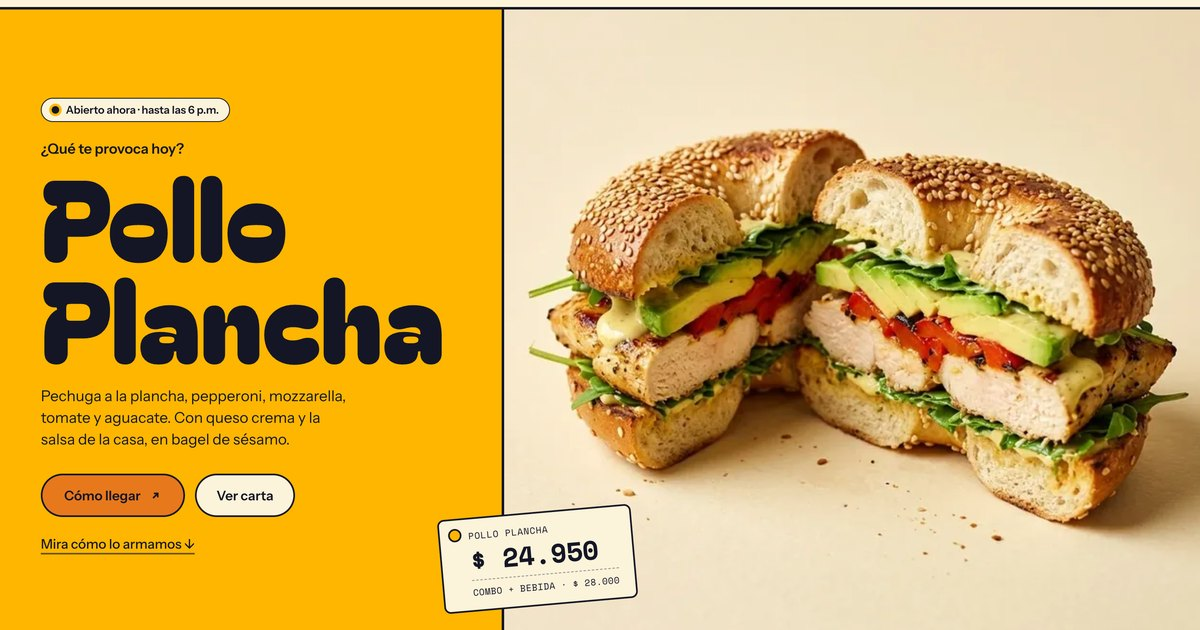
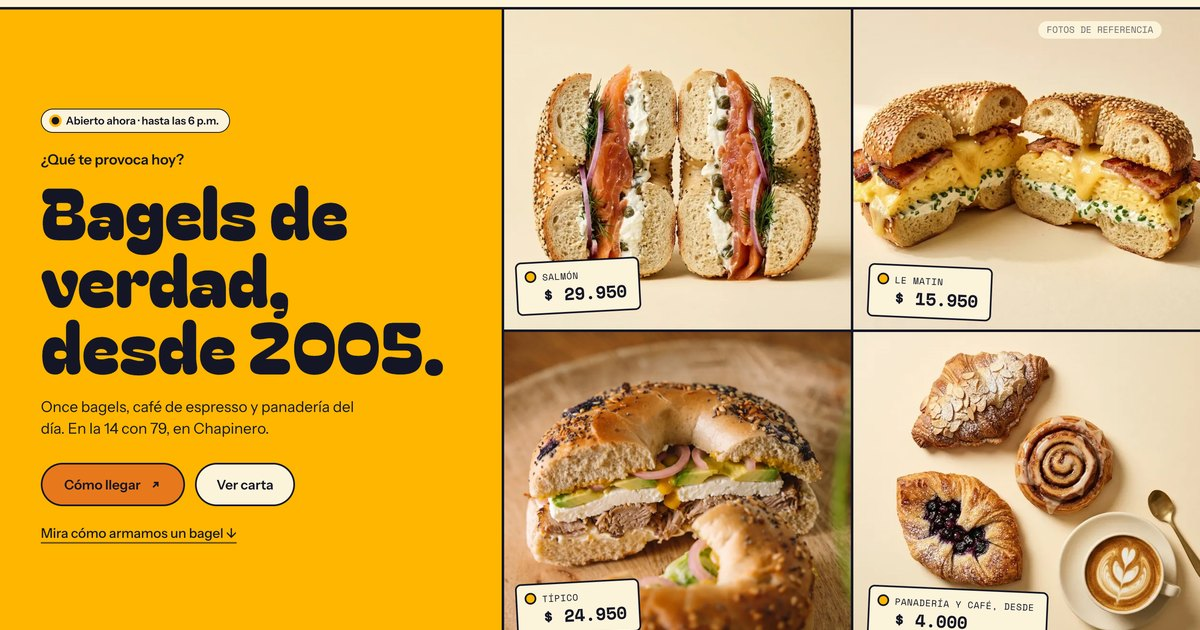
Portada de toda la tienda: vitrina con varios productos; el Pollo Plancha queda como ejemplo del armado

diff --git a/index.html b/index.html
@@ -5,7 +5,7 @@
 <meta name="viewport" content="width=device-width, initial-scale=1, viewport-fit=cover">
 <title>Le Bagel Club</title>
 <meta name="theme-color" content="#FCF3DB">
-<meta name="description" content="Bagels hervidos y horneados en Chapinero desde 2005. Carta, cómo se arma el Pollo Plancha y cómo llegar a la Cra. 14 #79-47, Bogotá.">
+<meta name="description" content="Bagels, café y panadería en Chapinero desde 2005. La carta completa y cómo llegar a la Cra. 14 #79-47, Bogotá.">
 <meta property="og:type" content="website">
 <meta property="og:title" content="Le Bagel Club · Bagels en la 14 con 79">
 <meta property="og:description" content="Bagels, café y panadería en Chapinero. Cra. 14 #79-47, Bogotá.">
@@ -77,24 +77,25 @@ h1, h2, h3 { font-family: var(--titulo); font-weight: 400; letter-spacing: 0; }
 
 /* ───── Acto 1: portada ───── */
 .portada { position: relative; display: grid; grid-template-columns: 42% 58%; grid-template-rows: 1fr auto; min-height: calc(100svh - 67px); }
-.portada__bloque { position: relative; z-index: 2; display: flex; flex-direction: column; justify-content: center; padding: clamp(32px, 4vw, 64px) clamp(24px, 3.4vw, 56px); background: var(--amarillo); border-right: var(--borde); }
+.portada__bloque { grid-column: 1; grid-row: 1; position: relative; z-index: 2; display: flex; flex-direction: column; justify-content: center; padding: clamp(32px, 4vw, 64px) clamp(24px, 3.4vw, 56px); background: var(--amarillo); border-right: var(--borde); }
 .portada__pregunta { font: 600 17px/1.2 var(--texto); margin-top: 22px; }
-.portada__bloque h1 { font-size: clamp(76px, 9.4vw, 140px); line-height: 0.9; margin: 8px 0 22px; }
-.portada__lead { font-size: 18px; line-height: 1.45; max-width: 31ch; }
+.portada__bloque h1 { font-size: clamp(54px, 5.9vw, 92px); line-height: 0.95; margin: 10px 0 22px; }
+.portada__lead { font-size: 18px; line-height: 1.45; max-width: 34ch; }
 .portada__acciones { display: flex; align-items: center; gap: 12px; flex-wrap: wrap; margin-top: 28px; }
 .portada__recorrido { align-self: flex-start; margin-top: 10px; }
-.portada__foto { position: relative; z-index: 3; }
-.portada__marco { position: absolute; inset: 0; overflow: hidden; background: var(--crema); }
-.portada__marco img { width: 100%; height: 100%; object-fit: cover; object-position: 50% 56%; }
-.portada__nota { position: absolute; right: var(--lado); bottom: 14px; font: 400 11px/1 var(--mono); color: rgba(21, 22, 37, 0.6); text-transform: uppercase; }
-
-/* El precio, como etiqueta impresa pegada sobre la unión del bloque y la foto */
-.etiqueta-precio { position: absolute; left: -76px; bottom: 44px; display: grid; gap: 4px; padding: 12px 18px 12px 34px; background: var(--crema); border: 2px solid var(--carbon); border-radius: 8px; font-family: var(--mono); text-transform: uppercase; transform: rotate(-5deg); transform-origin: left center; }
-.etiqueta-precio::before { content: ''; position: absolute; left: 10px; top: 10px; width: 12px; height: 12px; border-radius: 50%; border: 2px solid var(--carbon); background: var(--amarillo); }   /* el ojal de la etiqueta */
-.etiqueta-precio small { font-size: 11px; letter-spacing: .06em; }
-.etiqueta-precio b { font-size: 32px; line-height: 1; letter-spacing: -.01em; }
-.etiqueta-precio__corte { display: block; height: 0; margin: 4px 0 2px; border-top: 1.5px dashed rgba(21, 22, 37, 0.45); }
-.etiqueta-precio span { font-size: 11px; letter-spacing: .03em; }
+/* Vitrina: cuatro productos de la tienda en una rejilla de menú, separados por rayas carbón */
+.vitrina { grid-column: 2; grid-row: 1; position: relative; z-index: 3; display: grid; grid-template-columns: 1fr 1fr; grid-template-rows: 1fr 1fr; gap: 3px; background: var(--carbon); }
+.vitrina a { position: relative; overflow: hidden; background: var(--crema); }
+.vitrina img { position: absolute; inset: 0; width: 100%; height: 100%; object-fit: cover; transition: transform 1s var(--salida); }
+.vitrina a:hover img { transform: scale(1.04); }
+.vitrina__nota { position: absolute; right: var(--lado); top: 14px; z-index: 2; padding: 5px 10px; border-radius: 999px; background: var(--crema); font: 400 11px/1 var(--mono); color: rgba(21, 22, 37, 0.62); text-transform: uppercase; pointer-events: none; }
+/* Cada precio, en una etiqueta impresa con ojal */
+.etiqueta { position: absolute; left: 16px; bottom: 16px; max-width: calc(100% - 40px); display: grid; gap: 3px; padding: 9px 14px 10px 30px; background: var(--crema); border: 2px solid var(--carbon); border-radius: 7px; font-family: var(--mono); text-transform: uppercase; transform: rotate(-3deg); transform-origin: left bottom; transition: transform .45s var(--muelle); }
+.vitrina a:nth-child(even) .etiqueta { transform: rotate(2.5deg); }
+.vitrina a:hover .etiqueta { transform: rotate(0deg) translateY(-2px); }
+.etiqueta::before { content: ''; position: absolute; left: 9px; top: 9px; width: 10px; height: 10px; border-radius: 50%; border: 2px solid var(--carbon); background: var(--amarillo); }
+.etiqueta small { font-size: 11px; letter-spacing: .05em; }
+.etiqueta b { font-size: clamp(15px, 1.45vw, 21px); line-height: 1; letter-spacing: -.01em; white-space: nowrap; }
 
 .estado-local { display: inline-flex; align-self: flex-start; align-items: center; gap: 8px; padding: 7px 12px; border: 1.5px solid var(--carbon); border-radius: 999px; background: var(--crema); font: 600 13px/1 var(--texto); }
 .estado-local i { width: 9px; height: 9px; border-radius: 50%; box-shadow: inset 0 0 0 1.5px var(--tinta-2); }
@@ -115,6 +116,7 @@ h1, h2, h3 { font-family: var(--titulo); font-weight: 400; letter-spacing: 0; }
   background-image: url('img/grano.png'); background-size: 256px; }
 .armado__fija { position: sticky; top: 68px; height: calc(100svh - 68px); overflow: hidden; background: var(--crema); }
 .armado__cabeza { position: absolute; left: var(--lado); top: 40px; z-index: 2; }
+.armado__ejemplo { margin-top: 10px; font-size: 15px; color: var(--tinta-2); }
 .armado__cabeza h2 { font-size: clamp(32px, 3.2vw, 48px); line-height: 1.02; margin-top: 10px; }
 #lienzo { position: absolute; inset: 0; width: 100%; height: 100%; opacity: 0; transition: opacity .8s var(--salida); }
 #lienzo.listo { opacity: 1; }
@@ -260,11 +262,15 @@ section[id] { scroll-margin-top: 84px; }
   .barra { display: flex; position: fixed; z-index: 40; left: 12px; right: 12px; bottom: calc(12px + env(safe-area-inset-bottom)); gap: 8px; padding: 6px; border-radius: 999px; background: rgba(252, 243, 219, 0.94); backdrop-filter: blur(14px); -webkit-backdrop-filter: blur(14px); box-shadow: 0 0 0 1px var(--linea), 0 10px 30px -12px rgba(21, 22, 37, 0.35); }
   .barra a:first-child { flex: 1; display: grid; place-items: center; font: 600 15px/1 var(--texto); }
   .barra .pedir { flex: 1.4; height: 46px; }
-  /* Portada móvil: foto arriba, bloque amarillo debajo; la etiqueta se pega en la unión */
+  /* Portada móvil: la vitrina arriba (la comida primero), el bloque amarillo debajo */
   .portada { grid-template-columns: 1fr; grid-template-rows: auto auto auto; min-height: 0; }
-  .portada__foto { grid-row: 1; aspect-ratio: 4 / 3.3; border-bottom: var(--borde); }
-  .portada__bloque { grid-row: 2; border-right: 0; padding: 40px var(--lado) 30px; }
-  .portada__bloque h1 { font-size: clamp(60px, 18vw, 84px); margin: 6px 0 14px; }
+  .vitrina { grid-column: 1; grid-row: 1; aspect-ratio: 1 / 0.94; border-bottom: var(--borde); }
+  .etiqueta { left: 10px; bottom: 10px; max-width: calc(100% - 56px); padding: 7px 10px 8px 24px; }
+  .etiqueta::before { left: 7px; top: 8px; width: 9px; height: 9px; }
+  .etiqueta b { font-size: 16px; }
+  .vitrina__nota { top: 10px; bottom: auto; right: var(--lado); padding: 5px 10px; border-radius: 999px; background: var(--crema); }
+  .portada__bloque { grid-column: 1; grid-row: 2; border-right: 0; padding: 30px var(--lado) 30px; }
+  .portada__bloque h1 { font-size: clamp(44px, 12.6vw, 60px); margin: 6px 0 14px; }
   .portada__pregunta { margin-top: 16px; font-size: 16px; }
   .portada__lead { font-size: 16px; }
   .portada__recorrido { margin-top: 18px; }
@@ -272,9 +278,6 @@ section[id] { scroll-margin-top: 84px; }
   .familias a { padding: 15px var(--lado); font-size: 19px; }
   .familias a:nth-child(3) { border-left: 0; }
   .familias a:nth-child(n+3) { border-top: 2px solid var(--carbon); }
-  .etiqueta-precio { left: var(--lado); bottom: -30px; padding: 10px 14px 10px 30px; }
-  .etiqueta-precio b { font-size: 26px; }
-  .portada__nota { top: 12px; bottom: auto; }
   /* Carta móvil */
   .hoja { grid-template-columns: 1fr; padding: 28px 22px; }
   .familia h3 { font-size: 28px; }
@@ -305,23 +308,20 @@ section[id] { scroll-margin-top: 84px; }
     <div class="portada__bloque">
       <span class="estado-local" data-estado><i></i><span>Horario en Visítanos</span></span>
       <p class="portada__pregunta">¿Qué te provoca hoy?</p>
-      <h1 id="titulo">Pollo<br>Plancha</h1>
-      <p class="portada__lead">Pechuga a la plancha, pepperoni, mozzarella, tomate y aguacate. Con queso crema y la salsa de la casa, en bagel de sésamo.</p>
+      <h1 id="titulo">Bagels de verdad, desde 2005.</h1>
+      <p class="portada__lead">Once bagels, café de espresso y panadería del día. En la 14 con 79, en Chapinero.</p>
       <div class="portada__acciones">
         <a class="pedir" data-maps href="#" target="_blank" rel="noopener">Cómo llegar <svg viewBox="0 0 16 16" fill="none" stroke="currentColor" stroke-width="2"><path d="M5 11l6-6M6 5h5v5"/></svg></a>
         <a class="secundario" href="#carta">Ver carta</a>
       </div>
-      <a class="enlace portada__recorrido" href="#armado">Mira cómo lo armamos ↓</a>
+      <a class="enlace portada__recorrido" href="#armado">Mira cómo armamos un bagel ↓</a>
     </div>
-    <div class="portada__foto">
-      <div class="portada__marco"><img src="img/p-pollo-1200.webp" alt="Pollo Plancha partido por la mitad: pollo, tomate, aguacate y queso" fetchpriority="high"></div>
-      <div class="etiqueta-precio" role="img" aria-label="Pollo Plancha, 24.950 pesos; en combo con bebida, 28.000">
-        <small>Pollo Plancha</small>
-        <b>$ 24.950</b>
-        <i class="etiqueta-precio__corte" aria-hidden="true"></i>
-        <span>Combo + bebida · $ 28.000</span>
-      </div>
-      <span class="portada__nota">Foto de referencia</span>
+    <div class="vitrina" aria-label="Algunos de la carta">
+      <a href="#familia-bagels"><img src="img/p-salmon-1200.webp" alt="Bagel de salmón con queso crema" fetchpriority="high"><span class="etiqueta"><small>Salmón</small><b>$ 29.950</b></span></a>
+      <a href="#familia-bagels"><img src="img/p-lematin-1200.webp" alt="Bagel Le Matin con huevo, queso crema y tocineta"><span class="etiqueta"><small>Le Matin</small><b>$ 15.950</b></span></a>
+      <a href="#familia-bagels"><img src="img/tipico-1200.webp" alt="Bagel Típico con pernil y aguacate"><span class="etiqueta"><small>Típico</small><b>$ 24.950</b></span></a>
+      <a href="#familia-panaderia"><img src="img/p-panaderia-1200.webp" alt="Croissants, cinnamon roll y un latte"><span class="etiqueta"><small>Panadería y café, desde</small><b>$ 4.000</b></span></a>
+      <span class="vitrina__nota">Fotos de referencia</span>
     </div>
     <nav class="familias" aria-label="La carta por familias">
       <a href="#familia-bagels">Bagels <span>11</span></a>
@@ -332,11 +332,12 @@ section[id] { scroll-margin-top: 84px; }
   </section>
 
   <!-- Acto 2: cómo se arma -->
-  <section class="armado" id="armado" aria-label="Así se arma el Pollo Plancha">
+  <section class="armado" id="armado" aria-label="Así armamos un bagel; de ejemplo, el Pollo Plancha">
     <div class="armado__fija">
       <div class="armado__cabeza">
-        <div class="antetitulo">Así se arma</div>
+        <div class="antetitulo">Así armamos un bagel</div>
         <h2>Siete capas,<br>de abajo arriba</h2>
+        <p class="armado__ejemplo">De ejemplo, el Pollo Plancha.</p>
       </div>
       <canvas id="lienzo" aria-hidden="true"></canvas>
       <img class="respaldo" src="img/p-pollo-560.webp" alt="">
@@ -346,7 +347,7 @@ section[id] { scroll-margin-top: 84px; }
         <span class="estado__nombre">Bagel de sésamo</span>
         <p class="estado__desc">Hervido y horneado. Se abre por la mitad.</p>
         <ol class="progreso" aria-hidden="true"></ol>
-        <div class="estado__final"><b>$ 24.950</b><a class="enlace" href="#carta">Ver la carta →</a></div>
+        <div class="estado__final"><b>$ 24.950</b><a class="enlace" href="#familia-bagels">Ver los otros 10 bagels →</a></div>
       </div>
 
       <div class="recibo oculto" aria-hidden="true">
@@ -371,11 +372,11 @@ section[id] { scroll-margin-top: 84px; }
       </div>
     </div>
     <div class="galeria">
-      <figure><img src="img/p-salmon-1200.webp" alt="" loading="lazy"><figcaption>Salmón</figcaption></figure>
-      <figure><img src="img/tipico-1200.webp" alt="" loading="lazy"><figcaption>Típico</figcaption></figure>
-      <figure><img src="img/latte-1200.webp" alt="" loading="lazy"><figcaption>Latte</figcaption></figure>
-      <figure><img src="img/p-panaderia-1200.webp" alt="" loading="lazy"><figcaption>Panadería</figcaption></figure>
-      <figure><img src="img/p-lematin-1200.webp" alt="" loading="lazy"><figcaption>Le Matin</figcaption></figure>
+      <figure><img src="img/plato-combo-toldo.webp" alt="Combo de bagel, croissant y limonada" loading="lazy"><figcaption>Combos</figcaption></figure>
+      <figure><img src="img/plato-italien.webp" alt="Bagel Italien" loading="lazy"><figcaption>Italien</figcaption></figure>
+      <figure><img src="img/latte-1200.webp" alt="Latte" loading="lazy"><figcaption>Café</figcaption></figure>
+      <figure><img src="img/plato-dulces.webp" alt="Bagel dulce" loading="lazy"><figcaption>Bagels dulces</figcaption></figure>
+      <figure><img src="img/cajas-club.webp" alt="Cajas de Le Bagel Club para llevar" loading="lazy"><figcaption>Para llevar</figcaption></figure>
     </div>
   </section>
 
